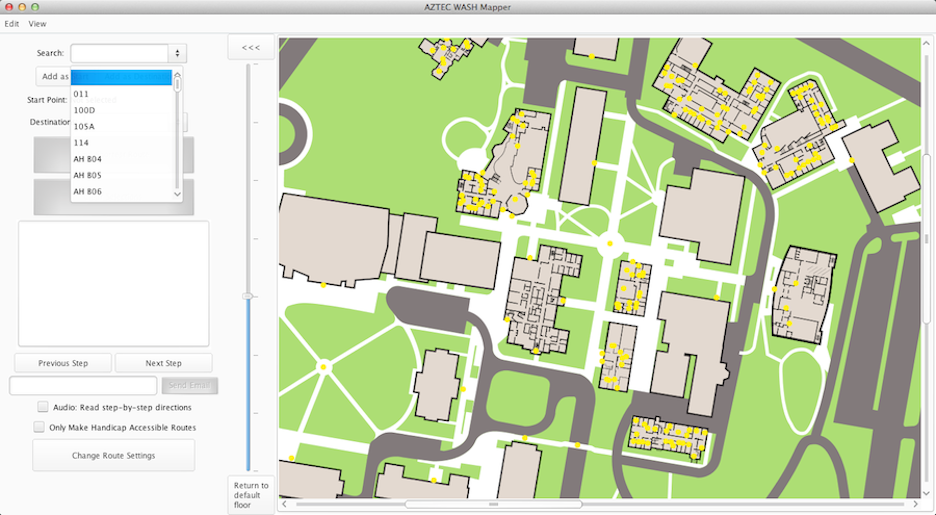
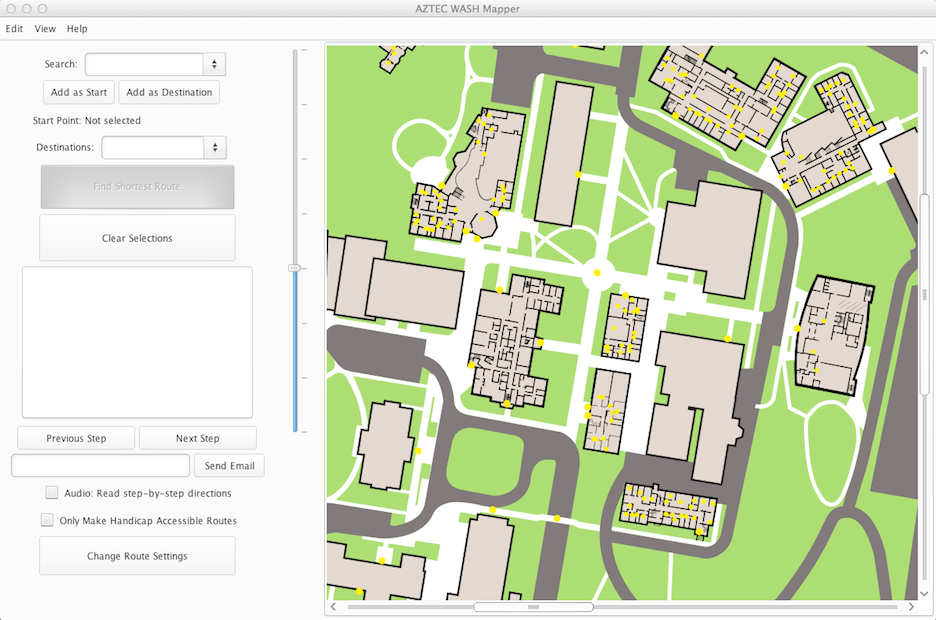
...

diff --git a/src/main/java/ui/MainAppUI.java b/src/main/java/ui/MainAppUI.java
@@ -524,12 +524,11 @@ public class MainAppUI extends JFrame{
 
             JButton search = new JButton("Search");
             JButton selectedNodes = new JButton("Click Nodes");
-            JButton stepBystep = new JButton("Direction");
+           // JButton findRoute = new JButton("Find Route");
+            JButton stepBystep = new JButton("Navigation");
             JButton newRoute = new JButton("New Route");
             JButton editButton = new JButton("Edit Menu");
             JButton viewButton = new JButton("View Menu");
-            JButton otherFeature = new JButton("Other Features");
-
 
             JButton previous = new JButton("Previous");
             JButton next = new JButton("Next");
@@ -545,11 +544,11 @@ public class MainAppUI extends JFrame{
             stepBystep.setPreferredSize(new Dimension(200, 40));
             editButton.setPreferredSize(new Dimension(200, 40));
             viewButton.setPreferredSize(new Dimension(200, 40));
-            otherFeature.setPreferredSize(new Dimension(200, 40));
+            //findRoute.setPreferredSize(new Dimension(200, 40));
             search.setMaximumSize(new Dimension(200, 40));
             selectedNodes.setMaximumSize(new Dimension(200, 40));
             stepBystep.setMaximumSize(new Dimension(200, 40));
-            otherFeature.setMaximumSize(new Dimension(200, 40));
+            //findRoute.setMaximumSize(new Dimension(200, 40));
             editButton.setMaximumSize(new Dimension(200, 40));
             viewButton.setMaximumSize(new Dimension(200, 40));
             newRoute.setPreferredSize(new Dimension(200, 40));
@@ -558,20 +557,19 @@ public class MainAppUI extends JFrame{
             tutorialSidePanel.add(user);
             tutorialSidePanel.add(search);
             tutorialSidePanel.add(selectedNodes);
+            //tutorialSidePanel.add(findRoute);
             tutorialSidePanel.add(stepBystep);
             tutorialSidePanel.add(newRoute);
             tutorialSidePanel.add(editButton);
             tutorialSidePanel.add(viewButton);
-            tutorialSidePanel.add(otherFeature);
 
             tutorialWindow.add(tutorialSidePanel, BorderLayout.WEST);
             ImageIcon pic1 = new ImageIcon("src/main/resources/pic1.png");
-            ImageIcon pic2 = new ImageIcon("src/main/resources/testPhoto2.png");
-            ImageIcon pic3 = new ImageIcon("src/main/resources/testPhoto3.png");
-            ImageIcon pic4 = new ImageIcon("src/main/resources/testPhoto4.png");
-            ImageIcon pic5 = new ImageIcon("src/main/resources/testPhoto5.png");
-            ImageIcon pic6 = new ImageIcon("src/main/resources/testPhoto6.png");
-            ImageIcon pic7 = new ImageIcon("src/main/resources/testPhoto7.png");
+            ImageIcon pic2 = new ImageIcon("src/main/resources/pic2.png");
+            ImageIcon pic3 = new ImageIcon("src/main/resources/pic3.png");
+            ImageIcon pic4 = new ImageIcon("src/main/resources/pic4.png");
+            ImageIcon pic5 = new ImageIcon("src/main/resources/pic5.png");
+            ImageIcon pic6 = new ImageIcon("src/main/resources/pic6.png");
 
             JLabel pic = new JLabel(pic1);
 
@@ -610,10 +608,6 @@ public class MainAppUI extends JFrame{
                 pic.setIcon(pic6);
                 flag = 6;
             });
-            otherFeature.addActionListener(actionEvent -> {
-                pic.setIcon(pic7);
-                flag = 7;
-            });
 
 
             next.addActionListener(actionEvent ->{
@@ -628,17 +622,16 @@ public class MainAppUI extends JFrame{
                 } else if (flag == 5){
                     pic.setIcon(pic6);
                 } else if (flag == 6){
-                    pic.setIcon(pic7);
+                    pic.setIcon(pic1);
+                    flag = 1;
                 }
-                if (flag < 7){
+                if (flag < 6){
                     flag++;
                 }
             });
 
             previous.addActionListener(actionEvent ->{
-                if (flag == 7){
-                    pic.setIcon(pic6);
-                } else if (flag == 6){
+                if (flag == 6){
                     pic.setIcon(pic5);
                 } else if (flag == 5){
                     pic.setIcon(pic4);
@@ -648,6 +641,9 @@ public class MainAppUI extends JFrame{
                     pic.setIcon(pic2);
                 } else if (flag == 2){
                     pic.setIcon(pic1);
+                } else if (flag == 1){
+                    pic.setIcon(pic6);
+                    flag = 6;
                 }
                 if (flag > 1){
                     flag--;
